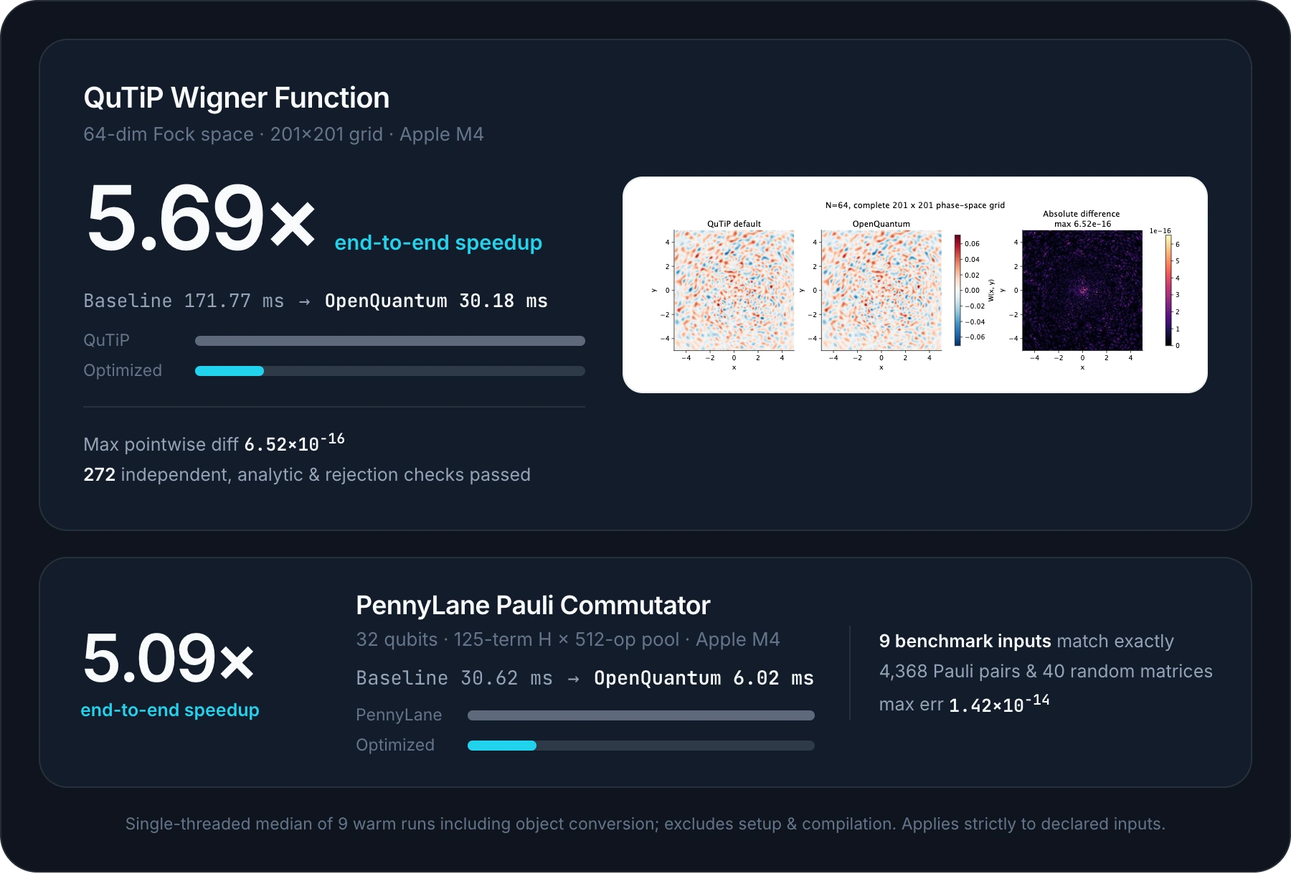
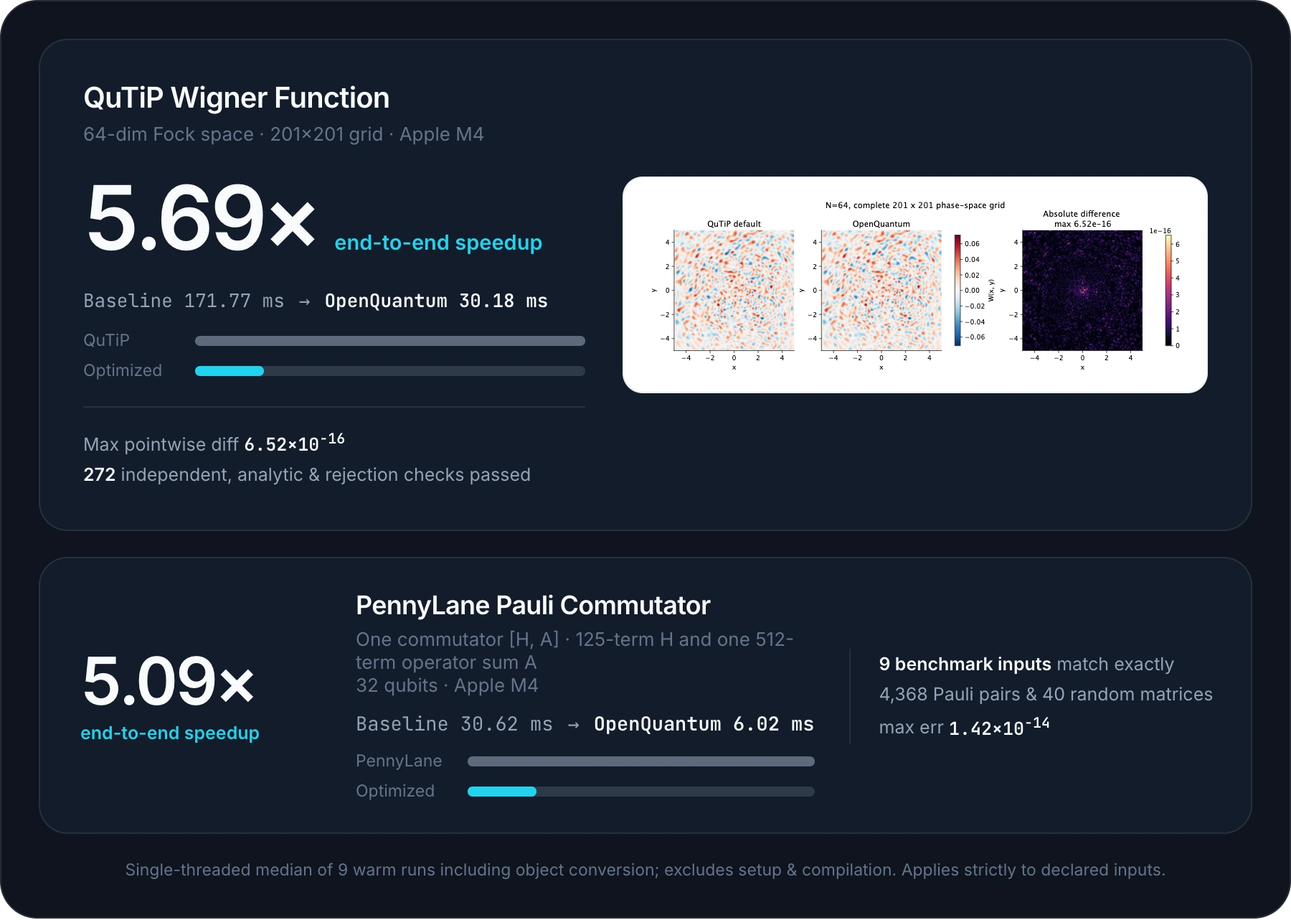
docs(readme): render pinned evidence and distinguish release inventories
Read VQE and benchmark measurements from digest-checked records. Label the single commutator in both editions, regenerate all four benchmark plates, and document current and historical assets.

diff --git a/scripts/render-readme-keynote.py b/scripts/render-readme-keynote.py
@@ -1,8 +1,8 @@
 #!/usr/bin/env python3
 """Render light/dark keynote visual plates for the OpenQuantum README.
 
-All measured values are read directly from the frozen experiment JSON files in
-experiments/ and all visual motifs reuse official assets in site/assets/ and
+Measured values come from the frozen local demo in docs/examples/ and benchmarks
+in experiments/. The visual motifs reuse official assets in site/assets/ and
 packages/openquantum-web-branding/assets/.
 
 Usage:
@@ -13,6 +13,7 @@ Usage:
 from __future__ import annotations
 
 import asyncio
+import hashlib
 import json
 import os
 import tempfile
@@ -30,13 +31,39 @@ SCALE = 2
 CSS_W = 900  # 2x -> 1800px output width
 
 
+def frozen_json(path: str, sha256: str) -> dict:
+    try:
+        raw = (ROOT / path).read_bytes()
+    except FileNotFoundError as error:
+        raise ValueError(f"Missing frozen evidence: {path}") from error
+    if hashlib.sha256(raw).hexdigest() != sha256:
+        raise ValueError(f"Frozen evidence changed: {path} (expected SHA-256 {sha256})")
+    return json.loads(raw)
+
+
+def scientific_html(value: float) -> str:
+    mantissa, exponent = f"{value:.2e}".split("e")
+    return f"{mantissa}×10<sup>{str(int(exponent)).replace('-', '−')}</sup>"
+
+
 def load_data() -> dict:
-    qutip = json.loads((ROOT / "experiments/qutip-rust-wigner/results/summary.json").read_text("utf-8"))
-    penny_all = json.loads((ROOT / "experiments/pennylane-rust-commutator/results/benchmark.json").read_text("utf-8"))
+    demo = frozen_json("docs/examples/quantum-ground-state-local-demo-2026-09-12.json",
[1 lines of base64/hex data omitted]
+    qutip = frozen_json("experiments/qutip-rust-wigner/results/summary.json",
[1 lines of base64/hex data omitted]
+    penny_all = frozen_json("experiments/pennylane-rust-commutator/results/benchmark.json",
[1 lines of base64/hex data omitted]
+    validation = frozen_json("experiments/pennylane-rust-commutator/results/validation.json",
[1 lines of base64/hex data omitted]
     penny = next(c for c in penny_all["cases"] if c["id"] == "local-32q-pool512")
     p_base = penny["timings"]["pennylane"]["median_seconds"] * 1000
     p_opt = penny["timings"]["rust_end_to_end"]["median_seconds"] * 1000
     return {
+        "vqe": demo["result"],
+        "review": demo["scientificReview"],
+        "q_error": scientific_html(qutip["max_default_error"]),
+        "q_task": qutip["task"],
+        "q_cpu": qutip["hardware"],
         "q_base": f"{qutip['baseline_ms']:.2f}",
         "q_opt": f"{qutip['rust_ms']:.2f}",
         "q_speedup": f"{qutip['baseline_ms'] / qutip['rust_ms']:.2f}×",
@@ -47,6 +74,13 @@ def load_data() -> dict:
         "p_speedup": f"{p_base / p_opt:.2f}×",
         "p_ratio": p_opt / p_base,
         "p_cases": len(penny_all["cases"]),
+        "p_cpu": penny_all["cpu"],
+        "p_qubits": penny["qubits"],
+        "p_h_terms": penny["actual_left_terms"],
+        "p_a_terms": penny["actual_right_terms"],
+        "p_pairs": validation["exhaustive_word_pairs"],
+        "p_random": validation["random_complex_pairs"],
+        "p_error": scientific_html(validation["worst_independent_matrix_error"]),
     }
 
 
@@ -346,7 +380,7 @@ def launch_card_plate(dark: bool, lang: str = "zh") -> str:
     return wrap_doc(body, css, "en" if en else "zh-CN")
 
 
-def workflow_plate(dark: bool, lang: str = "zh") -> str:
+def workflow_plate(dark: bool, d: dict, lang: str = "zh") -> str:
     mark_uri = (BRAND / ("mark-inverse.svg" if dark else "mark.svg")).as_uri()
     en = lang == "en"
     outer_bg = "#101620" if dark else "#F6F8FB"
@@ -366,6 +400,8 @@ def workflow_plate(dark: bool, lang: str = "zh") -> str:
     accent = "#22D3EE" if dark else "#0E7490"
     res_bg = "#111926" if dark else "#F4F8FB"
     rail_bg = "#131C2A" if dark else "#FFFFFF"
+    vqe, review = d["vqe"], d["review"]
+    passed = review["observations"]["pass"]
     copy = (
         {
             "s1t": "Ask in plain language",
@@ -375,12 +411,12 @@ def workflow_plate(dark: bool, lang: str = "zh") -> str:
             "s3t": "Verify independently",
             "s3d": "Separates completed tool execution from scientific acceptance with exact references.",
             "win": "OpenQuantum · H₂ Ground-State VQE Local Demo",
-            "badge": "15 PASS · 1 NOT_CHECKED",
+            "badge": f'{passed} PASS · {review["observations"]["not_checked"]} NOT_CHECKED',
             "user": "Solve the 2-qubit H₂ Pauli Hamiltonian in the fixed particle sector and cross-check against exact diagonalization.",
             "sub": "Local deterministic solver · Independent numerical checks",
             "t1": "Load sector constraints &amp; VQE workflow",
-            "t2": "Converge noiseless statevector VQE (112 evals)",
-            "t3": "Exact diagonalization · 15 local checks; provenance not_checked",
+            "t2": f'Converge noiseless statevector VQE ({vqe["evaluationCount"]} evals)',
+            "t3": f'Exact diagonalization · {passed} local checks; provenance {review["provenance"]}',
             "t3code": "validator",
             "t3status": "OBSERVED",
             "m1": "VQE sector ground energy",
@@ -398,12 +434,12 @@ def workflow_plate(dark: bool, lang: str = "zh") -> str:
             "s3t": "独立科学核验",
             "s3d": "把“代码跑通”与“科学验收”严格拆开，留存误差与来源边界。",
             "win": "OpenQuantum · H₂ 分子基态 VQE 本机复算示例",
-            "badge": "15 项通过 · 来源未核查",
+            "badge": f"{passed} 项通过 · 来源未核查",
             "user": "求解给定 H₂ 二量子位哈密顿量在固定粒子扇区的基态能量，并用精确对角化核对误差。",
             "sub": "本机确定性求解 · 独立数值检查（验收由 DSH 会话另行推导）",
             "t1": "加载扇区约束与 VQE 流程",
-            "t2": "无噪 statevector VQE 优化收敛（112 次评估）",
-            "t3": "独立精确对角化 · 15 项计算检查通过，来源链保留 not_checked",
+            "t2": f'无噪 statevector VQE 优化收敛（{vqe["evaluationCount"]} 次评估）',
+            "t3": f'独立精确对角化 · {passed} 项计算检查通过，来源链保留 {review["provenance"]}',
             "t3code": "validator",
             "t3status": "OBSERVED",
             "m1": "VQE 扇区基态能量",
@@ -480,6 +516,7 @@ def workflow_plate(dark: bool, lang: str = "zh") -> str:
 .mcell:last-child {{ border-right: 0; }}
 .mval {{ font-size: 18px; font-weight: 600; color: {ink}; letter-spacing: -0.02em; white-space: nowrap; }}
 .mval.ok {{ color: {ok_ink}; }}
+.mval sup {{ font-size: 11px; }}
 .munit {{ font-size: 12px; font-weight: 500; color: {sub}; margin-left: 3px; }}
 .mlabel {{ margin-top: 4px; font-size: 11.5px; color: {muted}; }}
 .evidence {{
@@ -537,11 +574,11 @@ def workflow_plate(dark: bool, lang: str = "zh") -> str:
         </div>
         <div class="metrics">
           <div class="mcell">
-            <div class="mval mono">-1.85727503<span class="munit">Ha</span></div>
+            <div class="mval mono">{vqe["energyHartree"]:.8f}<span class="munit">Ha</span></div>
             <div class="mlabel">{copy["m1"]}</div>
           </div>
           <div class="mcell">
-            <div class="mval mono">4.44×10<sup style="font-size:11px">−16</sup><span class="munit">Ha</span></div>
+            <div class="mval mono">{scientific_html(vqe["absoluteErrorHartree"])}<span class="munit">Ha</span></div>
             <div class="mlabel">{copy["m2"]}</div>
           </div>
           <div class="mcell">
@@ -577,27 +614,27 @@ def benchmarks_plate(dark: bool, d: dict, lang: str = "zh") -> str:
     copy = (
         {
             "q_name": "QuTiP Wigner Function",
-            "q_scope": "64-dim Fock space · 201×201 grid · Apple M4",
+            "q_scope": f'{d["q_task"]["dimension"]}-dim Fock space · {d["q_task"]["nx"]}×{d["q_task"]["ny"]} grid · {d["q_cpu"]}',
             "speed_label": "end-to-end speedup",
             "orig": "Baseline",
             "opt_bar": "Optimized",
-            "q_checks": f'Max pointwise diff <b class="mono">6.52×10<sup>−16</sup></b><br /><b>{d["q_checks"]}</b> independent, analytic &amp; rejection checks passed',
+            "q_checks": f'Max pointwise diff <b class="mono">{d["q_error"]}</b><br /><b>{d["q_checks"]}</b> independent, analytic &amp; rejection checks passed',
             "p_name": "PennyLane Pauli Commutator",
-            "p_scope": "32 qubits · 125-term H × 512-op pool · Apple M4",
-            "p_right": f'<b>{d["p_cases"]} benchmark inputs</b> match exactly<br />4,368 Pauli pairs &amp; 40 random matrices max err <b class="mono">1.42×10<sup>−14</sup></b>',
+            "p_scope": f'One commutator [H, A] · {d["p_h_terms"]}-term H and one {d["p_a_terms"]}-term operator sum A<br />{d["p_qubits"]} qubits · {d["p_cpu"]}',
+            "p_right": f'<b>{d["p_cases"]} benchmark inputs</b> match exactly<br />{d["p_pairs"]:,} Pauli pairs &amp; {d["p_random"]} random matrices max err <b class="mono">{d["p_error"]}</b>',
             "foot": "Single-threaded median of 9 warm runs including object conversion; excludes setup &amp; compilation. Applies strictly to declared inputs.",
         }
         if en
         else {
             "q_name": "QuTiP Wigner 函数",
-            "q_scope": "64 维单模 Fock 空间 · 201×201 网格 · Apple M4",
+            "q_scope": f'{d["q_task"]["dimension"]} 维单模 Fock 空间 · {d["q_task"]["nx"]}×{d["q_task"]["ny"]} 网格 · {d["q_cpu"]}',
             "speed_label": "完整调用提速",
             "orig": "原库",
             "opt_bar": "优化后",
-            "q_checks": f'完整网格最大绝对差 <b class="mono">6.52×10<sup>−16</sup></b><br /><b>{d["q_checks"]} 项</b>独立、解析与拒绝路径检查全部通过',
+            "q_checks": f'完整网格最大绝对差 <b class="mono">{d["q_error"]}</b><br /><b>{d["q_checks"]} 项</b>独立、解析与拒绝路径检查全部通过',
             "p_name": "PennyLane Pauli 对易子",
-            "p_scope": "32 量子位 · 125 项 Hamiltonian × 512 项算符池 · Apple M4",
-            "p_right": f'<b>{d["p_cases"]} 组基准输入</b>输出算符与系数逐项一致<br />4,368 对 Pauli 与 40 组复系数随机矩阵最大误差 <b class="mono">1.42×10<sup>−14</sup></b>',
+            "p_scope": f'一次对易子 [H, A] · {d["p_h_terms"]} 项 H 与一个 {d["p_a_terms"]} 项算符和 A<br />{d["p_qubits"]} 量子位 · {d["p_cpu"]}',
+            "p_right": f'<b>{d["p_cases"]} 组基准输入</b>输出算符与系数逐项一致<br />{d["p_pairs"]:,} 对 Pauli 与 {d["p_random"]} 组复系数随机矩阵最大误差 <b class="mono">{d["p_error"]}</b>',
             "foot": "单线程 9 轮热运行中位数，包含输入/输出对象转换，不含环境准备与编译；提速仅对应各报告定义的固定输入与硬件条件。",
         }
     )
@@ -705,16 +742,16 @@ async def main() -> None:
         "hero-zh-dark": hero_plate(True, "zh"),
         "launch-card-light": launch_card_plate(False, "zh"),
         "launch-card-dark": launch_card_plate(True, "zh"),
-        "workflow-zh-light": workflow_plate(False, "zh"),
-        "workflow-zh-dark": workflow_plate(True, "zh"),
+        "workflow-zh-light": workflow_plate(False, d, "zh"),
+        "workflow-zh-dark": workflow_plate(True, d, "zh"),
         "benchmarks-zh-light": benchmarks_plate(False, d, "zh"),
         "benchmarks-zh-dark": benchmarks_plate(True, d, "zh"),
         "hero-en-light": hero_plate(False, "en"),
         "hero-en-dark": hero_plate(True, "en"),
         "launch-card-en-light": launch_card_plate(False, "en"),
         "launch-card-en-dark": launch_card_plate(True, "en"),
-        "workflow-en-light": workflow_plate(False, "en"),
-        "workflow-en-dark": workflow_plate(True, "en"),
+        "workflow-en-light": workflow_plate(False, d, "en"),
+        "workflow-en-dark": workflow_plate(True, d, "en"),
         "benchmarks-en-light": benchmarks_plate(False, d, "en"),
         "benchmarks-en-dark": benchmarks_plate(True, d, "en"),
     }

diff --git a/docs/images/README.md b/docs/images/README.md
@@ -1,31 +1,34 @@
 # README 图片说明
 
-## 2026-11-02 README 动态横幅与实测卡片
+## 当前 README 主视觉（2026-11-27）
 
-| 图片 | 内容与来源 |
+四组图片各提供中文、英文与亮暗主题，共 16 张 2× WebP。中文 README 使用中文图，其他语言复用英文图。[离线渲染脚本](../../scripts/render-readme-keynote.py)
+
+| 用途 | 中文 | 英文 | 尺寸（像素）与来源 |
+| --- | --- | --- | --- |
+| 主视觉 | [亮色](readme/hero-zh-light.webp) · [暗色](readme/hero-zh-dark.webp) | [亮色](readme/hero-en-light.webp) · [暗色](readme/hero-en-dark.webp) | 1800 × 840。亮色图沿用官网波场与量子态素材，暗色图为 Bloch 球示意。 |
+| Desktop v0.8.11 下载卡 | [亮色](readme/launch-card-light.webp) · [暗色](readme/launch-card-dark.webp) | [亮色](readme/launch-card-en-light.webp) · [暗色](readme/launch-card-en-dark.webp) | 1800 × 368。使用官方品牌标志。 |
+| 本机 VQE 工作流 | [亮色](readme/workflow-zh-light.webp) · [暗色](readme/workflow-zh-dark.webp) | [亮色](readme/workflow-en-light.webp) · [暗色](readme/workflow-en-dark.webp) | 中文 1800 × 1038，英文 1800 × 1018。能量、参考误差和独立检查来自[本机 VQE 冻结记录](../examples/quantum-ground-state-local-demo-2026-09-12.json)。 |
+| QuTiP 与 PennyLane 实测 | [亮色](readme/benchmarks-zh-light.webp) · [暗色](readme/benchmarks-zh-dark.webp) | [亮色](readme/benchmarks-en-light.webp) · [暗色](readme/benchmarks-en-dark.webp) | 中文 1800 × 1298，英文 1800 × 1282。面板使用 [QuTiP 网格误差与耗时](../../experiments/qutip-rust-wigner/results/summary.json)、[PennyLane 完整调用计时](../../experiments/pennylane-rust-commutator/results/benchmark.json)和[独立矩阵核对](../../experiments/pennylane-rust-commutator/results/validation.json)。 |
+
+## 历史素材 · 2026-11-02 动态横幅与实测卡片
+
+| 图片 | 当时的用途与来源 |
 | --- | --- |
-| [动态横幅](readme/banner-motion.webp) | 12 秒无缝循环的 animated WebP（1200 × 600，15 fps，约 3 MB），由 `docs/communications/video/render.py hero` 从 `stage.html` 逐帧渲染。粒子、干涉条纹是程序生成的示意画面；文字中的两项提速与误差取自首页实测案例。 |
-| [静态横幅](readme/banner.webp) | 同一画面在 1.5 s 处的静帧，README 通过 `<picture>` 在系统开启「减少动态效果」时显示它。 |
-| [英文矢量横幅](readme/banner-en.svg) | 1200 × 600 矢量 SVG，沿用主横幅夜空量子波场配色与圆角规格，用于英文与国际语言 README；波纹与节点为示意画面，文字中的两项提速与 L3 验收数量与当前源码主线和实测报告一致。 |
-| [QuTiP 实测卡片](readme/case-qutip.webp) | 首页 QuTiP Wigner 案例面板，去掉可展开条件和链接（README 以文字给出）。数值与 Wigner 对照图来自首页，`tests/homepage.test.mjs` 核对其与固定实验数据一致。由 `scripts/render-readme-images.py` 渲染。 |
-| [PennyLane 实测卡片](readme/case-pennylane.webp) | 首页 PennyLane Pauli 对易子案例面板，处理方式同上。 |
-| [中文主视觉（亮/暗）](readme/hero-zh-light.webp) / [暗色](readme/hero-zh-dark.webp) | 1800 × 840（2× Retina）亮/暗自适应 README 主视觉，由 `scripts/render-readme-keynote.py` 渲染；亮色版复用 `site/assets/quantum-field-v3.png` 与 `quantum-state-v2.png`，暗色版为几何 Bloch 球矢量示意。 |
-| [英文主视觉（亮/暗）](readme/hero-en-light.webp) / [暗色](readme/hero-en-dark.webp) | 1800 × 840（2× Retina）亮/暗自适应英文与国际版 README 主视觉，由 `scripts/render-readme-keynote.py` 同源渲染。 |
-| [桌面发行卡片（亮/暗）](readme/launch-card-light.webp) / [暗色](readme/launch-card-dark.webp) | 1800 × 368（2× Retina）亮/暗自适应 Desktop v0.8.11 发行横条，使用官方 `mark-inverse.svg` 标志，由 `scripts/render-readme-keynote.py` 渲染。 |
-| [英文桌面发行卡片（亮/暗）](readme/launch-card-en-light.webp) / [暗色](readme/launch-card-en-dark.webp) | 1800 × 368（2× Retina）亮/暗自适应英文 Desktop v0.8.11 发行横条，由 `scripts/render-readme-keynote.py` 同源渲染。 |
-| [工作流示意卡片（亮/暗）](readme/workflow-zh-light.webp) / [暗色](readme/workflow-zh-dark.webp) | 1800 × 1038（2× Retina）亮/暗自适应工作流示意面板，展示 `npm run demo:quantum-ground-state` 的本机 H₂ 基态 VQE 实跑输出（`-1.85727503 Ha`、差值 `4.44×10⁻¹⁶ Ha`、15 项本地计算检查通过、`provenance: not_checked`、`acceptance: not_derived`）；为静态说明视觉，不替代实际运行记录。 |
-| [英文工作流示意卡片（亮/暗）](readme/workflow-en-light.webp) / [暗色](readme/workflow-en-dark.webp) | 1800 × 1018（2× Retina）亮/暗自适应英文工作流示意面板，与中文版同源数值与状态口径渲染。 |
-| [实测突破双案卡（亮/暗）](readme/benchmarks-zh-light.webp) / [暗色](readme/benchmarks-zh-dark.webp) | 1800 × 1294（2× Retina）亮/暗自适应实测汇总面板，数值直接读取 `experiments/qutip-rust-wigner/results/summary.json` 与 `experiments/pennylane-rust-commutator/results/benchmark.json`，嵌入 `site/assets/wigner-comparison.svg`，由 `scripts/render-readme-keynote.py` 渲染。 |
-| [英文实测突破双案卡（亮/暗）](readme/benchmarks-en-light.webp) / [暗色](readme/benchmarks-en-dark.webp) | 1800 × 1218（2× Retina）亮/暗自适应英文实测汇总面板，数值来源与中文版完全一致。 |
+| [动态横幅](readme/banner-motion.webp) | 12 秒无缝循环的 animated WebP（1200 × 600，15 fps，约 3 MB），由 `docs/communications/video/render.py hero` 从 `stage.html` 逐帧渲染。粒子和干涉条纹为程序示意，提速与误差取自实测。 |
+| [静态横幅](readme/banner.webp) | 旧版 README 在系统开启「减少动态效果」时使用的 1.5 s 静帧。 |
+| [英文矢量横幅](readme/banner-en.svg) | 旧版英文与国际语言 README 使用的 1200 × 600 SVG，数量与性能文案对应当时的版本。 |
+| [QuTiP 实测卡片](readme/case-qutip.webp) · [PennyLane 实测卡片](readme/case-pennylane.webp) | 旧版 README 分别展示 Wigner 函数与 Pauli 对易子案例，由 `scripts/render-readme-images.py` 渲染。 |
 
-品牌标志由 README 顶部的 `<h1>` 给出，横幅里不重复。中文字体取决于渲染机器（2026-11-02 版本使用 Noto Sans CJK）。
-这些图只是已有内容的静态或动态呈现，不是新的测量或界面验收证据。宣传片的来源与边界见 [视频说明](../communications/video/README.md)。
+旧版横幅的品牌标志放在 README 顶部，中文渲染使用 Noto Sans CJK。同期宣传片的记录见[视频说明](../communications/video/README.md)。
 
-## 2026-10-13 原版 Desktop 与分类设置
+## 历史截图 · 2026-10-13 原版 Desktop 与分类设置
+
+旧版 README 将这两张截图并排展示。当前中文 README 在可展开的视频与截图区域提供原图链接。
 
 | 图片 | 实际显示 |
 | --- | --- |
-| [Desktop 工作台](openquantum-desktop-20261013.jpg) | 原版 DSH Desktop 2.0.7 中的 OpenQuantum 品牌、新会话、量子学习通入口，以及添加模型的提示。README 在「从研究问题，走到计算与结果」一节与分类设置图并排展示。 |
+| [Desktop 工作台](openquantum-desktop-20261013.jpg) | 原版 DSH Desktop 2.0.7 中的 OpenQuantum 品牌、新会话、量子学习通入口，以及添加模型的提示。 |
 | [MCP 分类设置](openquantum-settings-categories-20261013.jpg) | 按用途折叠的 8 个分组、91 个连接，以及搜索、用途和启用状态筛选。 |
 
 两图直接取自 2026-10-13 的实际 macOS 原生客户端验证，尺寸均为 **2560 × 1680**，按原始字节保存，未裁剪、改字或合成。

diff --git a/docs/readme/README.en.md b/docs/readme/README.en.md
@@ -81,7 +81,7 @@ Beyond connecting existing libraries, targeted end-to-end optimizations of recur
   <a href="../../experiments/qutip-rust-wigner/README.md">
     <picture>
       <source media="(prefers-color-scheme: dark)" srcset="../images/readme/benchmarks-en-dark.webp" />
-      <img src="../images/readme/benchmarks-en-light.webp" width="100%" alt="Verified OpenQuantum benchmarks: QuTiP Wigner function 171.77 ms to 30.18 ms (5.69× speedup on the 64-dim 201×201 input, 6.52×10⁻¹⁶ max diff, 272 checks passed); PennyLane Pauli commutator 30.62 ms to 6.02 ms (5.09× speedup on the 32-qubit 125×512 input; 9/9 benchmark inputs match term-for-term; 1.42×10⁻¹⁴ max error across 40 random complex matrix checks)." />
+      <img src="../images/readme/benchmarks-en-light.webp" width="100%" alt="QuTiP Wigner function from 171.77 ms to 30.18 ms (5.69× on the 64-dimensional 201×201 input, 6.52×10⁻¹⁶ maximum difference, 272 checks passed). One PennyLane commutator of a 125-term H with one 512-term operator sum on 32 qubits took 30.62 ms and 6.02 ms end to end (5.09×). All nine benchmark inputs match term for term. The largest error across 40 random complex matrix checks was 1.42×10⁻¹⁴." />
     </picture>
   </a>
 </p>

diff --git a/README.md b/README.md
@@ -85,7 +85,7 @@ https://github.com/user-attachments/assets/5c00a30d-eef0-493a-975f-3faeb200cc9e
   <a href="experiments/qutip-rust-wigner/README.md">
     <picture>
       <source media="(prefers-color-scheme: dark)" srcset="./docs/images/readme/benchmarks-zh-dark.webp" />
-      <img src="./docs/images/readme/benchmarks-zh-light.webp" width="100%" alt="OpenQuantum 实测突破：QuTiP Wigner 函数 171.77 ms 优化至 30.18 ms（5.69×，最大绝对差 6.52×10⁻¹⁶，272 项核对通过）；PennyLane Pauli 对易子 30.62 ms 优化至 6.02 ms（5.09×，9 组基准一致，最大误差 1.42×10⁻¹⁴）。" />
+      <img src="./docs/images/readme/benchmarks-zh-light.webp" width="100%" alt="QuTiP Wigner 函数从 171.77 ms 减至 30.18 ms（5.69×，最大绝对差 6.52×10⁻¹⁶，272 项核对通过）。PennyLane 计算 125 项 H 与一个 512 项算符和的一次对易子，完整调用从 30.62 ms 减至 6.02 ms（5.09×）。9 组基准一致，独立矩阵检查最大误差为 1.42×10⁻¹⁴。" />
     </picture>
   </a>
 </p>

diff --git a/docs/readme/README.ru.md b/docs/readme/README.ru.md
@@ -61,6 +61,8 @@
   </a>
 </p>
 
+В установочные пакеты `v0.8.11` входят 189 навыков (Skills), 117 окружений и 3 процедуры научной приёмки уровня L3 в DSH. В таблице приведены данные для текущего исходного кода ветки `main` — 194 навыка, 122 окружения и 11 процедур уровня L3.
+
 <table>
   <tr>
     <td align="center" width="25%"><strong>194</strong><br /><sub>Встроенных Skill (181 авто / 13 индекс)</sub></td>

diff --git a/docs/readme/README.ar.md b/docs/readme/README.ar.md
@@ -61,6 +61,8 @@
   </a>
 </p>
 
+تضمّ حزم الإصدار `v0.8.11` 189 مهارة و117 بيئة و3 مسارات قبول علمي من المستوى L3 على DSH. ويعرض الجدول أعداد الشيفرة المصدرية الحالية في `main`، وهي 194 مهارة و122 بيئة و11 مسارًا من المستوى L3.
+
 <table>
   <tr>
     <td align="center" width="25%"><strong>194</strong><br /><sub>Skill مدمجة (181 تلقائية / 13 فهرس)</sub></td>

diff --git a/docs/readme/README.ja.md b/docs/readme/README.ja.md
@@ -61,6 +61,8 @@
   </a>
 </p>
 
+`v0.8.11` の配布パッケージには 189 個の Skill、117 個の環境、DSH で再実行できる L3 科学検証手順 3 件が含まれます。表は現在の `main` のソースコードに基づく集計で、Skill は 194 個、環境は 122 個、L3 検証手順は 11 件です。
+
 <table>
   <tr>
     <td align="center" width="25%"><strong>194</strong><br /><sub>組み込み Skill（自動 181 / 索引 13）</sub></td>

diff --git a/docs/readme/README.ko.md b/docs/readme/README.ko.md
@@ -61,6 +61,8 @@
   </a>
 </p>
 
+`v0.8.11` 배포 패키지에는 Skill 189개, 환경 117개, DSH에서 재실행할 수 있는 L3 과학 검증 절차 3개가 포함되어 있습니다. 아래 표는 현재 `main` 소스 코드 기준으로 Skill 194개, 환경 122개, L3 검증 절차 11개를 집계한 것입니다.
+
 <table>
   <tr>
     <td align="center" width="25%"><strong>194</strong><br /><sub>내장 Skill (자동 181 / 색인 13)</sub></td>

diff --git a/docs/readme/README.fr.md b/docs/readme/README.fr.md
@@ -61,6 +61,8 @@
   </a>
 </p>
 
+Les paquets d’installation de `v0.8.11` contiennent 189 Skills, 117 environnements et 3 procédures de validation scientifique L3 sur DSH. Le tableau décrit le code source actuel de `main`, avec 194 Skills, 122 environnements et 11 procédures L3.
+
 <table>
   <tr>
     <td align="center" width="25%"><strong>194</strong><br /><sub>Skills intégrés (181 auto / 13 index)</sub></td>

diff --git a/docs/readme/README.de.md b/docs/readme/README.de.md
@@ -61,6 +61,8 @@
   </a>
 </p>
 
+Die Installationspakete von `v0.8.11` enthalten 189 Skills, 117 Umgebungen und 3 wissenschaftliche Abnahmeverfahren der Stufe L3 für DSH. Die Tabelle zeigt den aktuellen Quellstand auf `main` mit 194 Skills, 122 Umgebungen und 11 L3-Verfahren.
+
 <table>
   <tr>
     <td align="center" width="25%"><strong>194</strong><br /><sub>Integrierte Skills (181 auto / 13 Index)</sub></td>

diff --git a/docs/readme/README.pt.md b/docs/readme/README.pt.md
@@ -61,6 +61,8 @@
   </a>
 </p>
 
+Os pacotes de instalação da versão `v0.8.11` incluem 189 Skills, 117 ambientes e 3 fluxos de aceitação científica L3 no DSH. A tabela apresenta os números do código-fonte atual de `main`, com 194 Skills, 122 ambientes e 11 fluxos L3.
+
 <table>
   <tr>
     <td align="center" width="25%"><strong>194</strong><br /><sub>Skills integradas (181 auto / 13 índice)</sub></td>

diff --git a/docs/readme/README.es.md b/docs/readme/README.es.md
@@ -61,6 +61,8 @@
   </a>
 </p>
 
+Los paquetes de `v0.8.11` incluyen 189 Skills, 117 entornos y 3 flujos de aceptación científica L3 en DSH. La tabla muestra las cifras del código fuente actual de `main`, con 194 Skills, 122 entornos y 11 flujos L3.
+
 <table>
   <tr>
     <td align="center" width="25%"><strong>194</strong><br /><sub>Skills integradas (181 auto / 13 índice)</sub></td>
